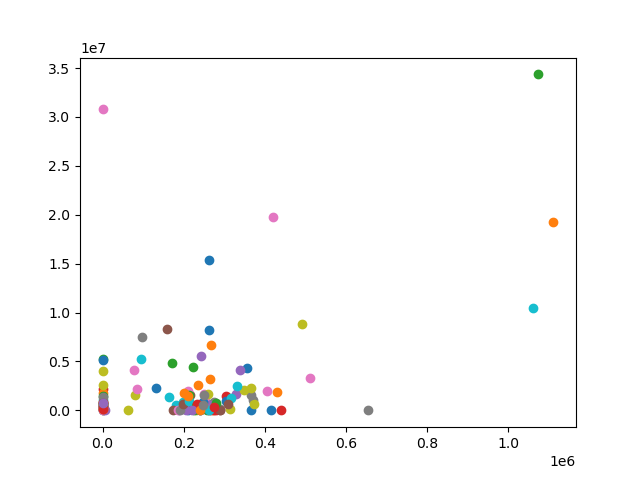
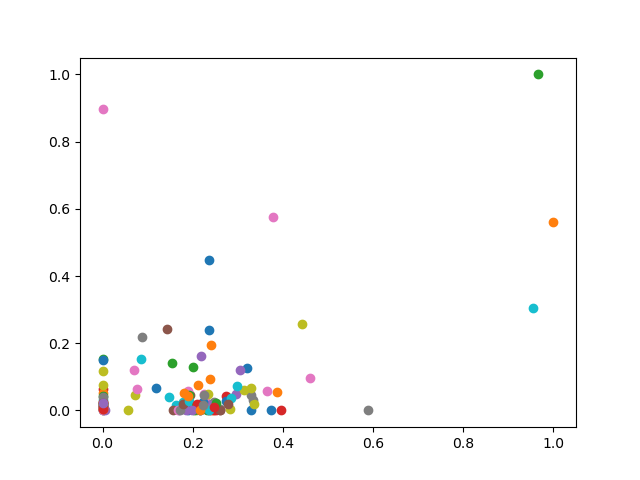
k-means clusters with feature scaling ML feature scaling

diff --git a/Machine-Learning-Engineer/h-k-means/k_means_cluster.py b/Machine-Learning-Engineer/h-k-means/k_means_cluster.py
@@ -48,6 +48,10 @@ features_list = [poi, feature_1, feature_2]
 data = featureFormat(data_dict, features_list )
 poi, finance_features = targetFeatureSplit( data )
 
+from sklearn.preprocessing import MinMaxScaler
+scl = MinMaxScaler()
+finance_features = scl.fit_transform(finance_features)
+
 
 ### in the "clustering with 3 features" part of the mini-project,
 ### you'll want to change this line to 
@@ -68,6 +72,6 @@ pred = kmeans.predict(finance_features)
 ### rename the "name" parameter when you change the number of features
 ### so that the figure gets saved to a different file
 try:
-    Draw(pred, finance_features, poi, mark_poi=False, name="enron_3clasters.png", f1_name=feature_1, f2_name=feature_2)
+    Draw(pred, finance_features, poi, mark_poi=False, name="enron_3clasters_with_scaling.png", f1_name=feature_1, f2_name=feature_2)
 except NameError:
     print("No predictions object named pred found, no clusters to plot")
